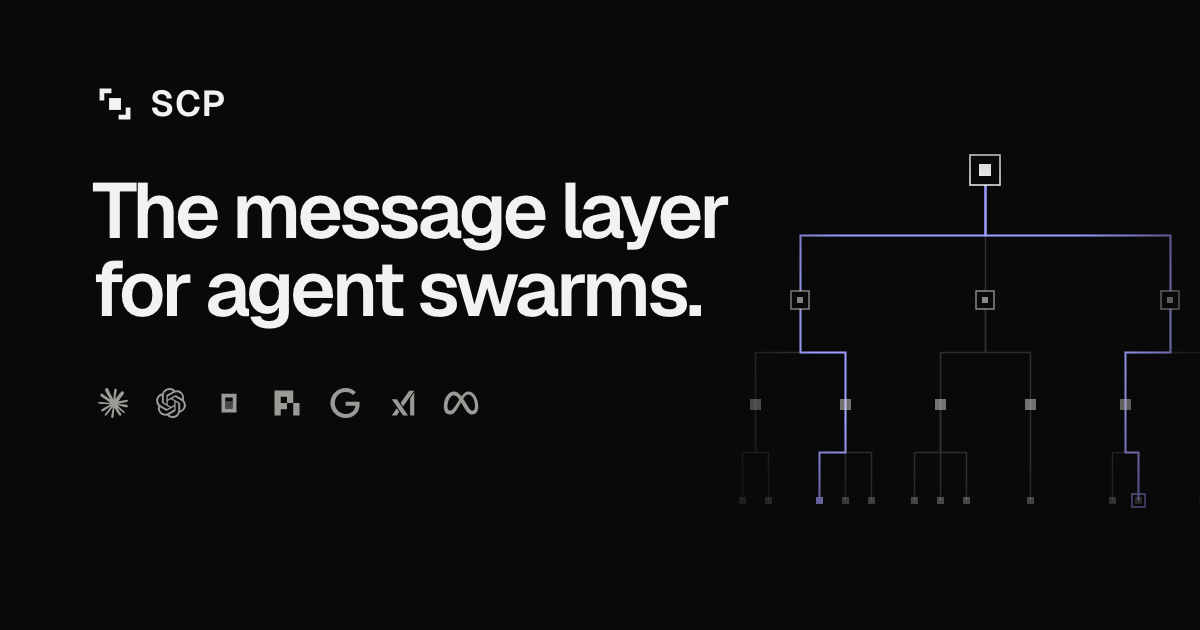
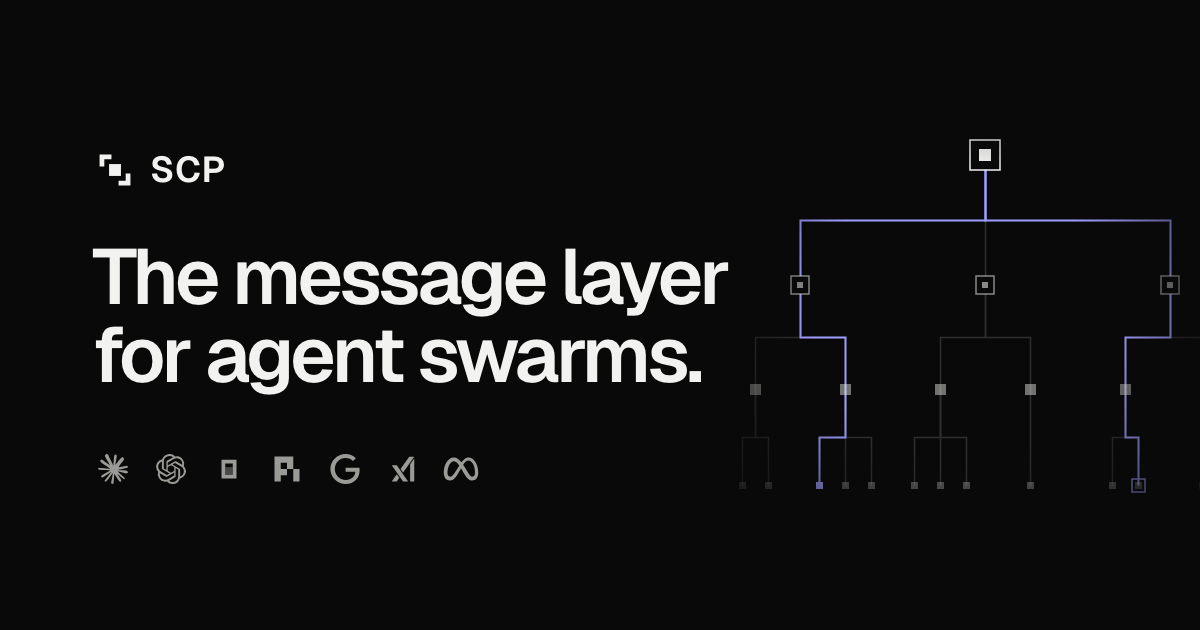
fix(web): center the share image vertically (#107)
## TL;DR

<!-- owner -->

## Summary

- The share image centres its text block and its tree vertically

🤖 Generated with [Claude Code](https://claude.com/claude-code)

diff --git a/apps/web/scripts/og.ts b/apps/web/scripts/og.ts
@@ -45,14 +45,14 @@ function tree(x: number, y: number, fan: number[][]): Node {
 }
 
 function graph(): string {
-  const hub: Pt = { x: 985, y: 170 };
+  const hub: Pt = { x: 985, y: 155 };
   const roots = [
-    tree(800, 300, [
+    tree(800, 285, [
       [0, 0],
       [0, 0, 0],
     ]),
-    tree(985, 300, [[0, 0, 0], [0]]),
-    tree(1170, 300, [
+    tree(985, 285, [[0, 0, 0], [0]]),
+    tree(1170, 285, [
       [0, 0],
       [0, 0],
     ]),
@@ -77,7 +77,7 @@ function graph(): string {
   const route = [elbow(via, from), elbow(roots[0], via), elbow(hub, roots[0]), elbow(hub, roots[2]), elbow(roots[2], toVia), elbow(toVia, to)];
   return `<svg class="g" width="${W}" height="${H}" viewBox="0 0 ${W} ${H}">
     <defs>
-      <radialGradient id="fade" cx="960" cy="330" r="330" gradientUnits="userSpaceOnUse">
+      <radialGradient id="fade" cx="960" cy="315" r="330" gradientUnits="userSpaceOnUse">
         <stop offset="0.45" stop-color="#fff"/><stop offset="1" stop-color="#000"/>
       </radialGradient>
       <mask id="m"><rect width="${W}" height="${H}" fill="url(#fade)"/></mask>
@@ -100,9 +100,9 @@ function html(fonts: { sans: string; mono: string }): string {
 html, body { width: ${W}px; height: ${H}px; overflow: hidden; background: ${C.bg}; color: ${C.fg}; -webkit-font-smoothing: antialiased; }
 body { position: relative; font-family: Geist, sans-serif; }
 svg.g { position: absolute; inset: 0; }
-.brand { position: absolute; left: 96px; top: 80px; display: flex; align-items: center; gap: 16px; font-size: 36px; font-weight: 640; letter-spacing: 0.02em; }
-.title { position: absolute; left: 92px; top: 172px; width: 740px; font-size: 78px; line-height: 1; font-weight: 600; letter-spacing: -0.045em; text-wrap: balance; }
-.marks { position: absolute; left: 98px; top: 388px; display: flex; gap: 28px; align-items: center; }
+.brand { position: absolute; left: 96px; top: 146px; display: flex; align-items: center; gap: 16px; font-size: 36px; font-weight: 640; letter-spacing: 0.02em; }
+.title { position: absolute; left: 92px; top: 238px; width: 740px; font-size: 78px; line-height: 1; font-weight: 600; letter-spacing: -0.045em; text-wrap: balance; }
+.marks { position: absolute; left: 98px; top: 454px; display: flex; gap: 28px; align-items: center; }
 </style></head><body>
 ${graph()}
 <div class="brand"><svg width="38" height="38" viewBox="0 0 32 32" fill="${C.fg}"><path d="M3 3h10v4H7v6H3zM29 29H19v-4h6v-6h4z"/><rect x="11" y="11" width="10" height="10"/></svg>SCP</div>
